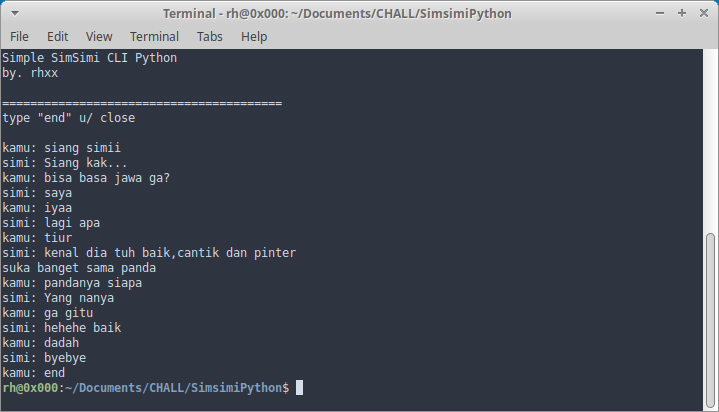
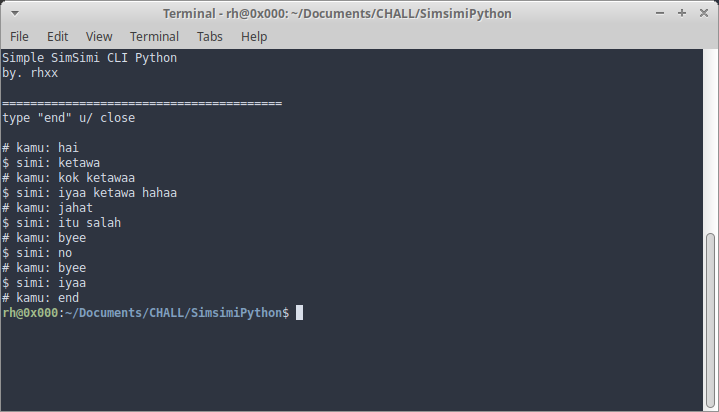
kamu cantik hari ini

Changed region(s): [[0.0, 0.3495, 0.4284, 0.9612]]

diff --git a/simsimi.py b/simsimi.py
@@ -15,14 +15,17 @@ while True:
 	else:
 		headers = {
 		    'Content-Type': 'application/json',
-		    'x-api-key': 'YOUR-API-KEY-HERE',#W~Xh87uruJ-BzPLKl~lDJG1iqjG0J0eQ74qxxxx_
+		    'x-api-key': 'YOUR-API-KEY-HERE',#jN-ZdauVXlHP9iUQB2bn8~Z~NIQQoNQqL5QTxxxx
 		}
 		data = '{\n            "utext": "'+b+'", \n            "lang": "id" \n     }'
 		response = requests.post('https://wsapi.simsimi.com/190410/talk', headers=	headers	, data=data)	
-		a=response.json()	
-		if a['status'] ==	 200:	
-			print('$ simi: '+a['atext'])	
+		a=response.json()
+		if 'status' in a:
+			if a['status'] == 200:
+				print('$ simi: '+a['atext'])
+			else:
+				print('error '+a['statusMessage'])
 		else:
-			print('maaf simsimi, sedang tidur. error '+a['statusMessage'])
+			print(a['message'])
 	b = raw_input('# kamu: ')
 	
